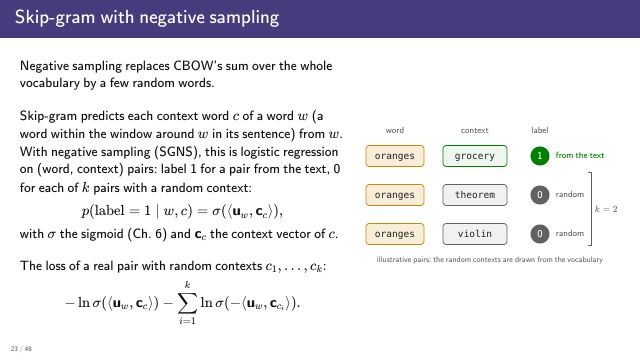
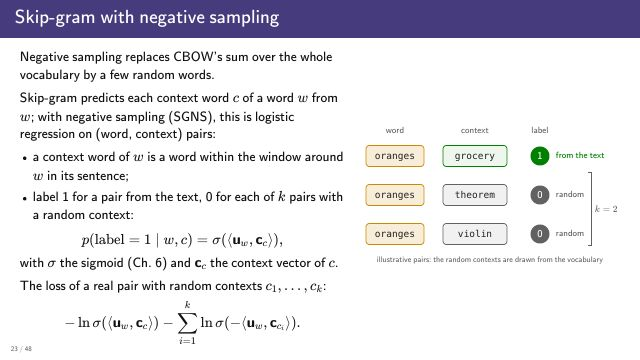
EPL slides: transformers deck, long text on slides 12-38 as lead-ins with bullets, D defined on slide 12, sliders on slides 20-21 wrap at the figure's width

Changed region(s): [[0.0312, 0.1222, 0.5312, 0.9472], [0.4688, 0.7944, 0.5, 0.825]]

diff --git a/docs/teaching/epl/slides/01-6-transformers/index.html b/docs/teaching/epl/slides/01-6-transformers/index.html
@@ -48,6 +48,8 @@ ul.plain li { margin: 0 0 6px; }
 .tk { font-family: Menlo, 'DejaVu Sans Mono', monospace; font-size: 0.88em; background: #f4f2ee; border: 1px solid #c9c3b8; border-radius: 5px; padding: 0 4px; }
 .knobs .ro { font-variant-numeric: tabular-nums; min-width: 12em; display: inline-block; }
 .knobs input[data-param="ln"] + output { display: none; }
+/* sliders wider than their figure wrap at the figure's width instead of taking the column's */
+.knobwrap .knobs { flex-wrap: wrap; row-gap: 6px; max-width: var(--kw); }
 /* full slides: tighter vertical rhythm */
 .dense .fbody p { margin-bottom: 10px; }
 .dense .fbody .katex-display { margin: 8px 0; }
@@ -277,13 +279,20 @@ ul.plain li { margin: 0 0 6px; }
 </section>
 
 <!-- 12 -->
-<section>
+<section class="dense">
   <h2>The distributional hypothesis</h2>
   <column>
     <p class="opener">Vectors in which similar words are close need a notion of when two words are similar, and linguistics supplies one.</p>
     <block title="J. R. Firth, 1957"><span class="quote">“You shall know a word by the company it keeps!”</span></block>
     <p>The distributional hypothesis: words that occur in similar contexts tend to have similar meanings.</p>
-    <p pause="pt=1"><b>Goal:</b> a vector $\bu_w\in\bbR^D$ for every word $w$, $D$ from 50 to 300, with similar words close together. In real word vectors learned from Wikipedia and news text (right), closeness (cosine similarity, next slide) is graded: from “cat”, dog 0.88, kitten 0.56, car 0.31, truck 0.23.</p>
+    <div pause="pt=1">
+      <p style="margin-bottom:8px"><b>Goal:</b> a vector $\bu_w\in\bbR^D$ for every word $w$, with similar words close together:</p>
+      <ul class="plain">
+        <li>the dimension $D$ is typically 50 to 300;</li>
+        <li>in real word vectors learned from Wikipedia and news text (right), closeness (cosine similarity, next slide) is graded;</li>
+        <li>from “cat”: dog 0.88, kitten 0.56, car 0.31, truck 0.23.</li>
+      </ul>
+    </div>
     <p pause>Two questions: how to measure closeness, and how to learn the vectors from text.</p>
   </column>
   <fig name="catcos" init="pt=0"></fig>
@@ -474,13 +483,20 @@ ul.plain li { margin: 0 0 6px; }
 </section>
 
 <!-- 20 -->
-<section class="dense">
+<section class="dense knobwrap" style="--kw:520px">
   <h2>Training CBOW by gradient descent</h2>
   <column>
     <p class="opener">Training starts from random context vectors (in gensim, a widely used open-source word2vec library, output vectors at zero) and takes one step of size $\eta$ per blank:</p>
     \[\bu_w\leftarrow\bu_w-\eta\,\nabla_{\bu_w}\cL,\qquad\bc_{w_j}\leftarrow\bc_{w_j}-\tfrac{\eta}{m}\,\nabla_{\bh}\cL,\]
     <p>the same step for every context word $j=1,\dots,m$ of the blank.</p>
-    <p pause="s1=1">One step on slide 16's blank, $\eta=0.5$: $\bu_{\text{oranges}}$ becomes $(0.786,0.575,0.252)$ and $\bu_{\text{laptops}}$ $(0.014,0.125,0.848)$, every context vector moves by the same $(0.034,0.017,-0.040)$, and $p(\text{oranges}\mid\text{context})$ rises from 0.541 to 0.589.</p>
+    <div pause="s1=1">
+      <p style="margin-bottom:8px">One step on slide 16's blank, $\eta=0.5$:</p>
+      <ul class="plain">
+        <li>$\bu_{\text{oranges}}$ becomes $(0.786,0.575,0.252)$ and $\bu_{\text{laptops}}$ $(0.014,0.125,0.848)$;</li>
+        <li>every context vector moves by the same $(0.034,0.017,-0.040)$;</li>
+        <li>$p(\text{oranges}\mid\text{context})$ rises from 0.541 to 0.589.</li>
+      </ul>
+    </div>
   </column>
   <fig name="ctx3dstep" init="az=-44 el=32 s1=0"></fig>
   <knob param="az" min="-180" max="180" step="1" digits="0">azimuth</knob>
@@ -496,7 +512,7 @@ ul.plain li { margin: 0 0 6px; }
 </section>
 
 <!-- 21 -->
-<section class="dense">
+<section class="dense knobwrap" style="--kw:700px">
   <h2>Training CBOW from a random start</h2>
   <column>
     <p class="opener">The same training, started from random vectors on a toy corpus, groups words that keep the same company.</p>
@@ -542,7 +558,11 @@ ul.plain li { margin: 0 0 6px; }
   <h2>Skip-gram with negative sampling</h2>
   <column>
     <p class="opener">Negative sampling replaces CBOW's sum over the whole vocabulary by a few random words.</p>
-    <p>Skip-gram predicts each context word $c$ of a word $w$ (a word within the window around $w$ in its sentence) from $w$. With negative sampling (SGNS), this is logistic regression on (word, context) pairs: label 1 for a pair from the text, 0 for each of $k$ pairs with a random context:</p>
+    <p style="margin-bottom:8px">Skip-gram predicts each context word $c$ of a word $w$ from $w$; with negative sampling (SGNS), this is logistic regression on (word, context) pairs:</p>
+    <ul class="plain">
+      <li>a context word of $w$ is a word within the window around $w$ in its sentence;</li>
+      <li>label 1 for a pair from the text, 0 for each of $k$ pairs with a random context:</li>
+    </ul>
     \[p(\text{label}=1\mid w,c)=\sigma(\langle\bu_w,\bc_c\rangle),\]
     <p>with $\sigma$ the sigmoid (Ch. 6) and $\bc_c$ the context vector of $c$.</p>
     <div pause>
@@ -611,7 +631,14 @@ ul.plain li { margin: 0 0 6px; }
   <h2>Nearest neighbours and clusters of GloVe vectors</h2>
   <column>
     <p class="opener">Trained on a large corpus, such vectors group words by topic and arrange them along shared directions.</p>
-    <p>The vectors of slide 12 come from GloVe (Pennington, Socher and Manning 2014), a related model fit to word co-occurrence counts: 100 coordinates for each of 400,000 words, trained on Wikipedia 2014 and the Gigaword 5 news corpus. Nearest words to “soccer” by cosine: football 0.87, basketball 0.80, volleyball 0.77, hockey 0.74, league 0.74.</p>
+    <div>
+      <p style="margin-bottom:8px">The vectors of slide 12 come from GloVe (Pennington, Socher and Manning 2014), a related model fit to word co-occurrence counts:</p>
+      <ul class="plain">
+        <li>100 coordinates for each of 400,000 words;</li>
+        <li>trained on Wikipedia 2014 and the Gigaword 5 news corpus.</li>
+      </ul>
+    </div>
+    <p>Nearest words to “soccer” by cosine: football 0.87, basketball 0.80, volleyball 0.77, hockey 0.74, league 0.74.</p>
     <div class="swap">
       <p class="current-visible" pause="v=0 a=1" data-fragment-index="1">Right, 32 words of four groups: each is closer to its own group's average vector than to any other group's, in all 100 coordinates.</p>
       <p pause="v=1" data-fragment-index="2">Right, 34 capitals and their countries: the first direction separates Europe from Asia for 67 of the 68 words, the second cities from countries for 67 of 68.</p>
@@ -726,7 +753,8 @@ ul.plain li { margin: 0 0 6px; }
     </div>
   </column>
   <fig name="wavg" init="set=0 pt=0 w=0 n=0"></fig>
-  <p class="under" pause data-fragment-index="2" style="width:470px;margin:0">Spring's own vector is not lost to its small weight: a transformer block adds this output to it, $\bx+f(\bx)$ (slide 43). How much a token attends to itself varies by head.</p>
+  <p class="under" pause data-fragment-index="2" style="width:470px;margin:0">Spring's own vector is not lost to its small weight: a transformer block adds this output to it, $\bx+f(\bx)$ (slide 43).</p>
+  <p class="under" pause data-fragment-index="2" style="width:470px;margin:6px 0 0">How much a token attends to itself varies by head.</p>
   <narration>
     <say>Attention builds a new vector for each word as a weighted average of the vectors of all the words in the sentence. The weights are nonnegative and add to one, so for each word they form a probability distribution over the positions of the sentence, and the new vector is the expected value of the vectors under that distribution.</say>
     <say>Take the phrase old spring couch soft, with the two-dimensional vectors on the right. Suppose spring puts most of its weight on couch and soft. For now these weights are given; we will compute them shortly. The area of each circle is proportional to its weight.</say>
@@ -848,7 +876,13 @@ ul.plain li { margin: 0 0 6px; }
     <p class="opener">A trained model computes these weights with learned matrices, and they can be read off for a real sentence.</p>
     <p>SmolLM2-135M-Instruct on “The animal didn't cross the street because it was too tired”, layer 13, head 8.</p>
     <p>First figure: row $i$ holds the weights $\cat{\balpha_i}$ of token $i$; the row of “it” puts 73% of its weight on “animal”.</p>
-    <p pause data-fragment-index="1">The second figure, which replaces it, shows the queries and keys behind those weights. The score $\langle\cq{\bq}_{\text{it}},\ck{\bk}_{\text{animal}}\rangle/\sqrt{64}$ is computed from the two outlined vectors after the rotation that encodes position (slide 40).</p>
+    <div pause data-fragment-index="1">
+      <p style="margin-bottom:8px">The second figure, which replaces it, shows the queries and keys behind those weights:</p>
+      <ul class="plain">
+        <li>the score $\langle\cq{\bq}_{\text{it}},\ck{\bk}_{\text{animal}}\rangle/\sqrt{64}$ is computed from the two outlined vectors;</li>
+        <li>both vectors are taken after the rotation that encodes position (slide 40).</li>
+      </ul>
+    </div>
   </column>
   <narration>
     <say>Does a trained model attend the way a reader does? This heat map comes from SmolLM2, a small open model with 135 million parameters, reading a sentence in which "it" refers to the animal. Each row is one token, and its cells are that token's attention weights over the tokens so far. In this head, the row of "it" puts most of its weight on animal: the model has learned to link the pronoun to its noun.</say>
@@ -863,7 +897,13 @@ ul.plain li { margin: 0 0 6px; }
   <div class="figimg fig" style="padding-top:30px"><img src="img/L20-attention-head-specialization.png" width="680" alt="Eight attention heads of SmolLM2 on the same sentence"></div>
   <column>
     <p class="opener">A layer runs several attention computations side by side; each is called a head.</p>
-    <p>Head $h$ has its own $\mW_Q^{(h)},\mW_K^{(h)},\mW_V^{(h)}$ (SmolLM2 shares 3 key and value heads among its 9 query heads); the heads' outputs are stacked into one vector and multiplied by an output matrix $\mW_O$.</p>
+    <div>
+      <p style="margin-bottom:8px">Head $h$ has its own $\mW_Q^{(h)},\mW_K^{(h)},\mW_V^{(h)}$:</p>
+      <ul class="plain">
+        <li>SmolLM2 shares 3 key and value heads among its 9 query heads;</li>
+        <li>the heads' outputs are stacked into one vector and multiplied by an output matrix $\mW_O$.</li>
+      </ul>
+    </div>
     <p>SmolLM2 has 30 layers of 9 heads, 270 in all; left, eight on one sentence, chosen for their distinct patterns.</p>
     <alertblock pause title="Different heads attend in different patterns" class="small">One links the pronoun to its noun; others watch the previous or the first word.</alertblock>
   </column>
